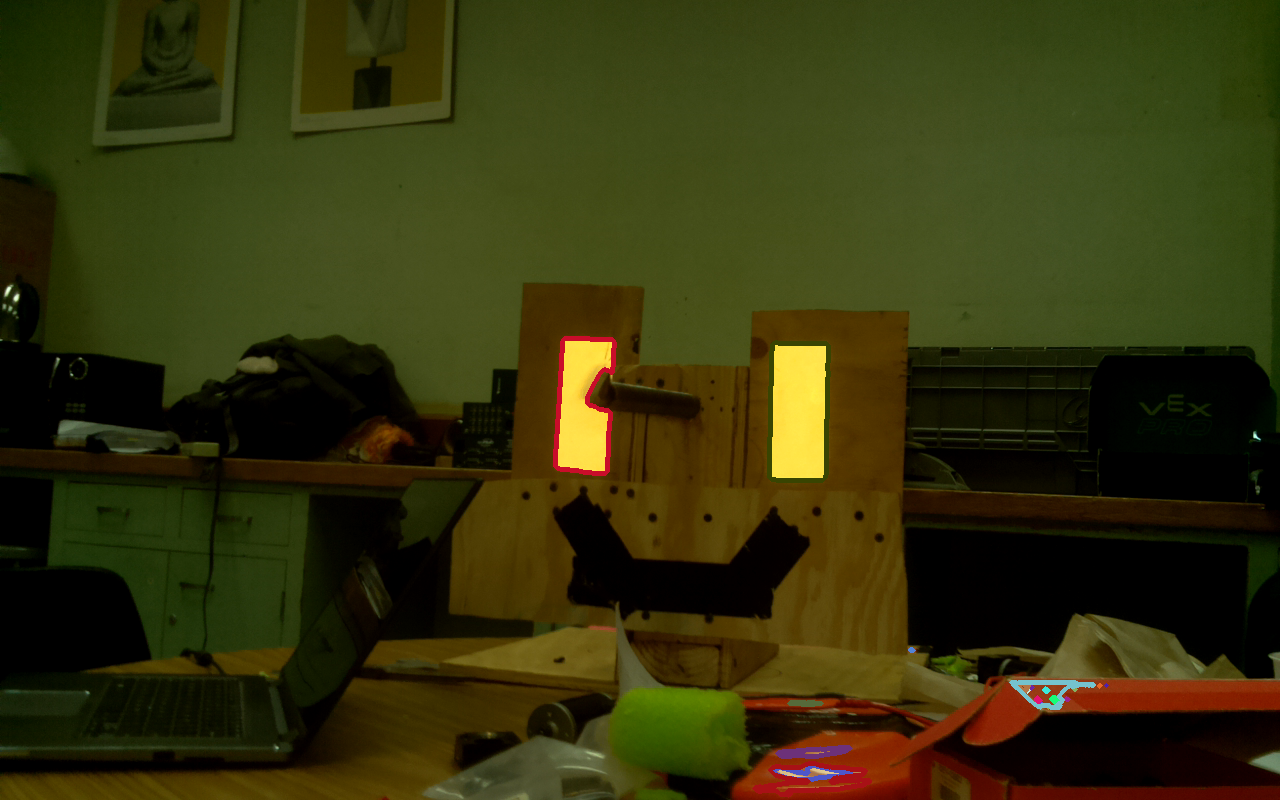
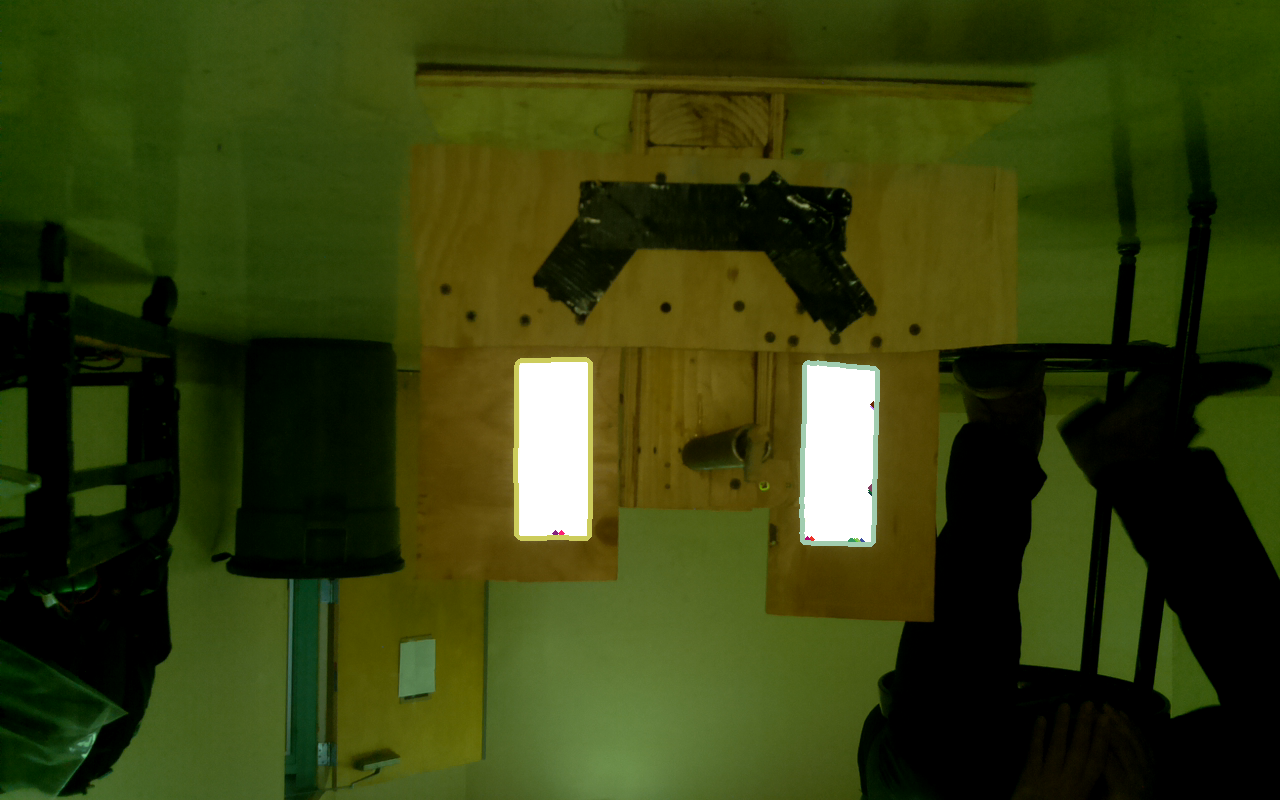
Add images and stuff

diff --git a/vision.py b/vision.py
@@ -21,7 +21,7 @@ def displayImage(image):
 def filterImageTape(input):
     input = cv.blur(input, (5,5))
     input = cv.cvtColor(input, cv.COLOR_BGR2HSV)
-    return cv.inRange(input, np.array([0,150,150]), np.array([50,255,255]), input) #white light HSV
+    return cv.inRange(input, np.array([0,0,150]), np.array([50,255,255]), input) #white light HSV
     #return cv.inRange(input, np.array([100,100,100]), np.array([255,255,255]), input) #white light BGR
 
 def findContours(input):
@@ -108,10 +108,9 @@ camera.getFrame()
 
 def vision():
     currentTime = time.time()
-    #for file in listdir("imagesWhite"):
-        #print(file)
     frame = camera.getFrame()
-    cv.imwrite("original.png", frame)
+    #frame = cv.imread("original1.png")
+    #cv.imwrite("images/" + str(round(time.time())) + ".png", frame)
     #ret, frame = cap.read()
     #print("read image: " + str(time.time() - currentTime))
     #frame = cv.imread("imagesWhite/tapew8.png")
@@ -153,7 +152,8 @@ def getAngle():
     cv.imwrite("contours1.png", cv.cvtColor(frame, cv.COLOR_BGR2HSV))
     print(len(contoursTape))
     if len(contoursTape) == 2:
-        angle = findAngle(findMid(contoursTape))
+        mid = findMid(contoursTape)
+        angle = findAngle(mid)
         frame = cv.rectangle(frame, (int(mid), 0), (int(mid) + 4, 1000), 255 << 16 + 255)
         cv.imwrite("tape1.png", cv.cvtColor(frame, cv.COLOR_BGR2HSV))
         if isFlipped:
@@ -175,6 +175,7 @@ def getAngle():
 
 def main():
     vision()
+    #getAngle()
 
 if __name__ == "__main__":
     main()
